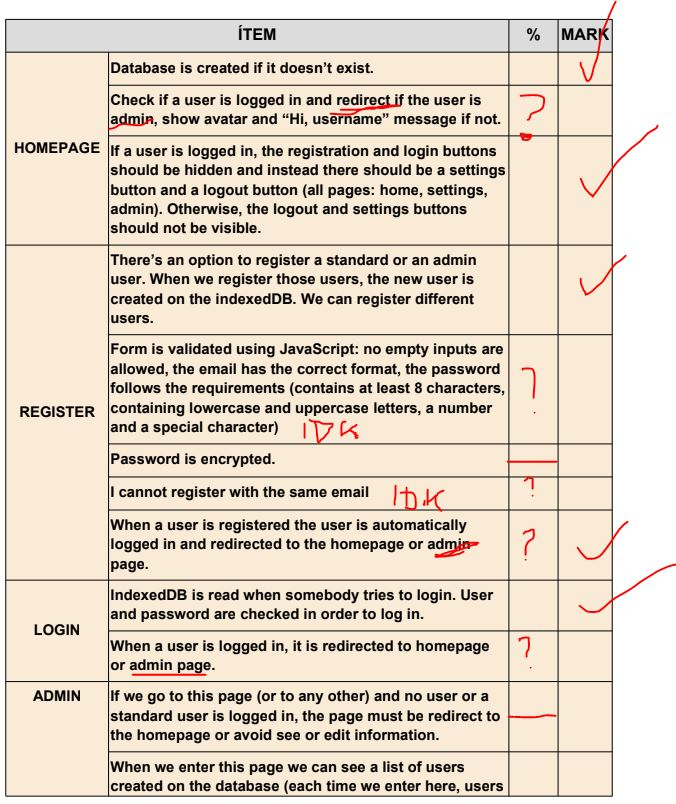
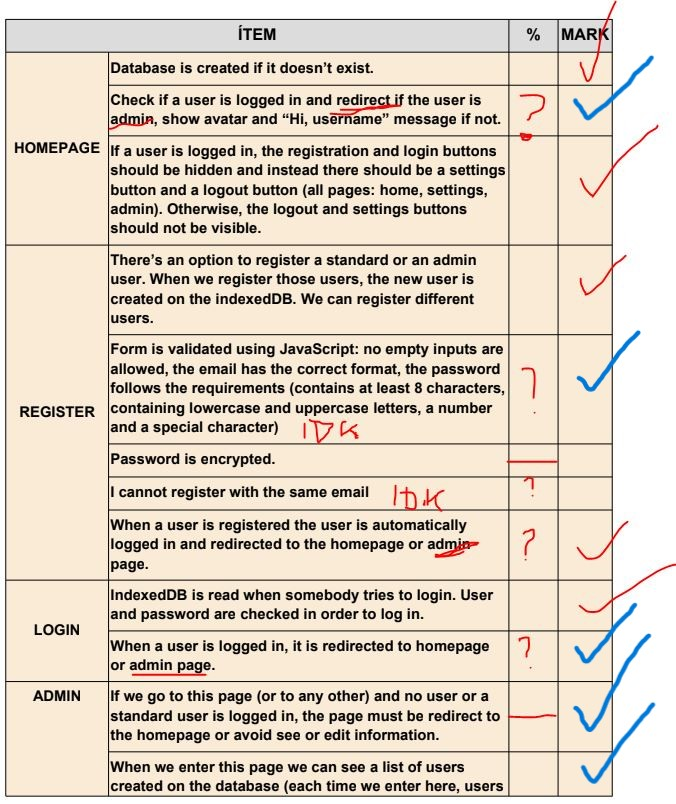
28/12 admin acabado

diff --git a/Tema_5/indexedDB_extra/admin/script.js b/Tema_5/indexedDB_extra/admin/script.js
@@ -9,6 +9,7 @@ let db2;
 let ajustes;
 let password;
 let cajaUser;
+let emailUserLoged;
 
 //variables popup
 let envoltoriPopup = document.getElementsByClassName("envoltorio-popup");
@@ -26,6 +27,15 @@ let pwd2 = document.getElementById("password2");
 let envoltoriPopupPwd = document.getElementsByClassName("envoltorio-popup-pwd");
 let cerrarPopupPwd = document.getElementsByClassName("cerrar-popup-pwd");
 let enviaFormPwd = document.getElementById("envia-form-pwd");
+
+//Pop Up userDel
+let envoltorioPopupUserDel = document.getElementsByClassName(
+  "envoltorio-popup-userDel"
+);
+let cerrarPopupUserDel = document.getElementsByClassName(
+  "cerrar-popup-userDel"
+);
+let enviaFormUserDel = document.getElementById("envia-form-userDel");
 
 function iniciarDB() {
   cajaUser = document.querySelector("#cajaUser");
@@ -68,6 +78,7 @@ function muestra2() {
 //solo se mira el usuario registrado
 function userLoged(evento) {
   let puntero = evento.target.result;
+  emailUserLoged = puntero.value.Email;
   if (puntero.value.Admin == false) {
     window.location.href = "../index.html";
   }
@@ -88,11 +99,12 @@ function mostrarUser(evento) {
       Nombre: ${user["Nombre"]} ${user["Apellido"]} / Email: ${user["Email"]}
       / Contraseña: ${user["Contrasena"]}
       <button class='btn gris chgPwd'>Cambiar Contraseña</button>
-      <button class='btn gris' id='userDel'>Delete User</button>
+      <button class='btn gris userDel'>Delete User</button>
       </div><button class='col-lg-2 h-50 mt-4 btn gris ajustes'>Ajustes</button> <hr>`;
     });
     let ajustes = document.querySelectorAll(".ajustes");
     let chgPwd = document.querySelectorAll(".chgPwd");
+    let userDel = document.querySelectorAll(".userDel");
 
     for (let i = 0; i < users.length; i++) {
       ajustes[i].addEventListener("click", (e) => {
@@ -116,14 +128,17 @@ function mostrarUser(evento) {
             Apellidos.value,
             Email.value,
             img,
-            users[i].Contrasena
+            users[i].Contrasena,
+            users[i].Admin
           );
+          envoltoriPopup[0].style.display = "none";
+          window.location.reload();
         });
         cerrarPopup[0].addEventListener("click", (e) => {
           envoltoriPopup[0].style.display = "none";
         });
 
-        function actualizarUser(nombre, apellido, email, img, pwd) {
+        function actualizarUser(nombre, apellido, email, img, pwd, admin) {
           //se crea uno nuevo cada vez que pones un key distinto pero al punter.value.email ser undefined nose que hacer
           let transaccion = db2.transaction(["User2"], "readwrite");
           let almacen = transaccion.objectStore("User2");
@@ -133,23 +148,26 @@ function mostrarUser(evento) {
             Email: email,
             Avatar: img,
             Contrasena: pwd,
+            Admin: admin,
           });
 
+          let transaccion2 = db.transaction(["User"], "readwrite");
+          let almacen2 = transaccion2.objectStore("User");
+          if (users[i].Email == emailUserLoged) {
+            almacen2.put({
+              Nombre: nombre,
+              Apellido: apellido,
+              Email: email,
+              Avatar: img,
+              Admin: admin,
+              Contrasena: pwd,
+            });
+          }
           //si el que esta registrado quiere cambiar cosas
-          //   let transaccion2 = db.transaction(["User"], "readwrite");
-          //   let almacen2 = transaccion2.objectStore("User");
-          //   almacen2.put({
-          //     Nombre: nombre,
-          //     Apellido: apellido,
-          //     Email: email,
-          //     Avatar: img,
-          //     Contrasena: pwd,
-          //   });
-          //   window.location.reload();
         }
-        //el popup de la contraseña
       });
 
+      //el popup de la contraseña
       chgPwd[i].addEventListener("click", (e) => {
         e.preventDefault();
         // pwd.value = puntero.value.contrasena;
@@ -158,11 +176,12 @@ function mostrarUser(evento) {
           // console.log(pwd.value+" "+pwd2.value);
           if (pwd.value == pwd2.value) {
             actualizarpwd(
-              pwd,
+              pwd.value,
               users[i].Nombre,
               users[i].Apellido,
               users[i].Email,
-              users[i].Avatar
+              users[i].Avatar,
+              users[i].Admin
             );
           } else {
             console.log("hola");
@@ -171,7 +190,8 @@ function mostrarUser(evento) {
             errorPWD.style.color = "red";
           }
         });
-        function actualizarpwd(pwd, nombre, apellido, email, img) {
+        function actualizarpwd(pwd, nombre, apellido, email, img, admin) {
+          console.log(pwd + nombre + apellido + email + img);
           let transaccion2 = db2.transaction(["User2"], "readwrite");
           let almacen = transaccion2.objectStore("User2");
           almacen.put({
@@ -180,6 +200,7 @@ function mostrarUser(evento) {
             Email: email,
             Avatar: img,
             Contrasena: pwd,
+            Admin: admin,
           });
           window.location.reload();
         }
@@ -187,111 +208,44 @@ function mostrarUser(evento) {
       cerrarPopupPwd[0].addEventListener("click", (e) => {
         envoltoriPopupPwd[0].style.display = "none";
       });
+
+      //El pop up de borrar cuenta
+      userDel[i].addEventListener("click", (e) => {
+        e.preventDefault();
+        envoltorioPopupUserDel[0].style.display = "block";
+        enviaFormUserDel.addEventListener("click", (e) => {
+          deleteUser(users[i].Email);
+        });
+      });
+      cerrarPopupUserDel[0].addEventListener("click", (e) => {
+        envoltorioPopupUserDel[0].style.display = "none";
+      });
+      function deleteUser(email) {
+        console.log(email);
+        let transaccion2 = db2.transaction(["User2"], "readwrite");
+        let almacen = transaccion2.objectStore("User2");
+        let borraUser = almacen.delete(email);
+        borraUser.success = () => {
+          console.log("se ha borrado correctamente");
+        };
+        borraUser.error = () => {
+          console.log("No se ha borrado");
+        };
+        if (users[i].Email == emailUserLoged) {
+          let transaccion = db.transaction(["User"], "readwrite");
+          let almacen = transaccion.objectStore("User");
+          let borraUser = almacen.clear(email);
+          borraUser.onsuccess = () => {
+            window.location.href = "./../index.html";
+          };
+          borraUser.onerror = () => {
+            console.log("No se ha borrado");
+          };
+        }
+        window.location.reload();
+      }
     }
   }
-  // let emailFijo;
-  // if (puntero.length != 0) {
-  //   emailFijo = puntero.value.Email;
-  //   cajaUser.innerHTML +=
-  //     "<div class='col-lg-9 mx-auto p-3'>" +
-  //     "<img class='avatar' src=" +
-  //     imagen_perfil.src +
-  //     " width='50px' height='50px' style='border-radius: 55px;'> " +
-  //     "Nombre: " +
-  //     puntero.value.Nombre +
-  //     " " +
-  //     puntero.value.Apellido +
-  //     " / Email: " +
-  //     puntero.value.Email +
-  //     " / Contraseña: " +
-  //     puntero.value.Contrasena +
-  //     " <button class='btn gris' id='chgPwd'>Cambiar Contraseña</button>" +
-  //     " <button class='btn gris' id='userDel'>Delete User</button>" +
-  //     `</div><button class='col-lg-2 h-50 mt-4 btn gris 'id='ajustes-${puntero.value.Email}'>Ajustes</button> <hr>`;
-
-  //     //el popup de la contraseña
-  //   password = document.getElementById("chgPwd");
-  //   password.addEventListener("click", (e) => {
-  //     e.preventDefault();
-  //     console.log(puntero.value.Nombre);
-  //     // pwd.value = puntero.value.contrasena;
-  //     envoltoriPopupPwd[0].style.display = "block";
-  //     enviaFormPwd.addEventListener("click", (e) => {
-  //       // console.log(pwd.value+" "+pwd2.value);
-  //       if (pwd.value == pwd2.value) {
-  //         actualizarpwd(
-  //           pwd,
-  //           puntero.value.Nombre,
-  //           puntero.value.Apellido,
-  //           puntero.value.Email,
-  //           puntero.value.Avatar
-  //         );
-  //       } else {
-  //         console.log("hola");
-  //         let errorPWD = document.getElementById("errorPWD");
-  //         errorPWD.innerText = "Las contraseñas no coinciden";
-  //         errorPWD.style.color = "red";
-  //       }
-  //     });
-  //     function actualizarpwd(pwd, nombre, apellido, email, img) {
-  //       let transaccion = db.transaction(["User"], "readwrite");
-  //       let almacen = transaccion.objectStore("User");
-  //       almacen.put({
-  //         Nombre: nombre,
-  //         Apellido: apellido,
-  //         Email: email,
-  //         Avatar: img,
-  //         Contrasena: pwd,
-  //       });
-  //       window.location.reload();
-  //     }
-  //   });
-  //   cerrarPopupPwd[0].addEventListener("click", (e) => {
-  //     envoltoriPopupPwd[0].style.display = "none";
-  //   });
-
-  //   //el pop up de lo sajustes
-  //   ajustes = document.getElementById("ajustes-" + puntero.value.Email);
-  //   console.log(ajustes);
-  //   ajustes.addEventListener("click", (e) => {
-  //     console.log("hola");
-  //     e.preventDefault(); //para que no recargue la pagina
-  //     // Lo que muestra los resultados de la base de datos en los inputs del popup
-  //     envoltoriPopup[0].style.display = "block";
-  //     //no llego a entender porque esto me sale como null si esta bien declarado hace literalmente 3 lineas arriba
-  //     nombre.value = puntero.value.Nombre;
-  //     Apellidos.value = puntero.value.Apellido;
-  //     Email.value = emailFijo;
-  //     let img;
-  //     imagen.addEventListener("click", (e) => {
-  //       if (e.target.classList.contains("avatar")) {
-  //         img = e.target.getAttribute("ruta");
-  //         console.log(e.target.getAttribute("ruta"));
-  //       }
-  //     });
-  //     enviaForm.addEventListener("click", (e) => {
-  //       actualizarUser(nombre.value, Apellidos.value, emailFijo, img);
-  //     });
-  //     cerrarPopup[0].addEventListener("click", (e) => {
-  //       envoltoriPopup[0].style.display = "none";
-  //     });
-
-  //     function actualizarUser(nombre, apellido, email, img, pwd) {
-  //       //se crea uno nuevo cada vez que pones un key distinto pero al punter.value.email ser undefined nose que hacer
-  //       let transaccion = db.transaction(["User"], "readwrite");
-  //       let almacen = transaccion.objectStore("User");
-
-  //       almacen.put({
-  //         Nombre: nombre,
-  //         Apellido: apellido,
-  //         Email: email,
-  //         Avatar: img,
-  //         Contrasena: puntero.value.Contrasena,
-  //       });
-  //       window.location.reload();
-  //     }
-  //   });
-  //   puntero.continue();
 }
 
 window.addEventListener("load", iniciarDB());

diff --git a/Tema_5/indexedDB_extra/formulario/script.js b/Tema_5/indexedDB_extra/formulario/script.js
@@ -33,7 +33,7 @@ function iniciarDB() {
 
   let solicitud2 = indexedDB.open("LogOut");
   solicitud2.addEventListener("error", mostrarError);
-  solicitud.addEventListener("success", comenzar2);
+  solicitud2.addEventListener("success", comenzar2);
 
 }
 //db1
@@ -44,7 +44,6 @@ function mostrarError(error) {
 //en caso de que se arranque correctamente
 function comenzar(acceso) {
   db = acceso.target.result;
-  muestra();
 }
 let img;
 imagen.addEventListener("click", (e) => {
@@ -91,18 +90,7 @@ function almacenarUser(e) {
     Avatar: img,
     Admin: admin,
   });
-
-  document.querySelector("#nombre").value = "";
-  document.querySelector("#apellido").value = "";
-  document.querySelector("#email").value = "";
-  document.querySelector("#password").value = "";
-  // document.querySelector("#password").value = "";
-  document.querySelector("#admin").value = "";
-  if (admin) {
-    window.location.href = "./../admin/admin.html";
-  } else {
-    window.location.href = "./../index.html";
-  }
+ 
 }
 
 //db2
@@ -137,12 +125,11 @@ function almacenarUser2(e) {
     Admin: admin,
   });
 
-  document.querySelector("#nombre").value = "";
-  document.querySelector("#apellido").value = "";
-  document.querySelector("#email").value = "";
-  document.querySelector("#password").value = "";
-  // document.querySelector("#password").value = "";
-  document.querySelector("#admin").value = "";
+  if (admin) {
+    window.location.href = "./../admin/admin.html";
+  } else {
+    window.location.href = "./../index.html";
+  }
 }
 
 //Los validadores 100% originales que para nada estan copiados de un ejercicio de Joan

diff --git a/Tema_5/indexedDB_extra/admin/admin.html b/Tema_5/indexedDB_extra/admin/admin.html
@@ -49,7 +49,17 @@
     <div class="row bg-light rounded" id="cajaUser">
 
     </div>
-
+    <div class="envoltorio-popup-userDel">
+      <div class="popup">
+        <div class="cerrar-popup-userDel">x</div>
+        <div class="contenido-popup">
+          <h2>Vas ha eliminar el usuario</h2>
+          <hr>  
+          <input type="submit" name="submit" value="Eliminar" id="envia-form-userDel" class="col-lg-12 col-md-12 col-12 my-3 ">
+          
+        </div>
+      </div>
+    </div>
     <div class="envoltorio-popup-pwd">
       <div class="popup">
         <div class="cerrar-popup-pwd">x</div>

diff --git a/Tema_5/indexedDB_extra/admin/style.css b/Tema_5/indexedDB_extra/admin/style.css
@@ -50,3 +50,19 @@
   right: 8px;
   cursor: pointer;
 }
+/*POPUP userDel*/
+.envoltorio-popup-userDel {
+  background: rgba(0, 0, 0, 0.5);
+  position: fixed;
+  top: 0;
+  left: 0;
+  width: 100%;
+  height: 100%;
+  display: none;
+}
+.cerrar-popup-userDel {
+  position: absolute;
+  top: 5px;
+  right: 8px;
+  cursor: pointer;
+}
